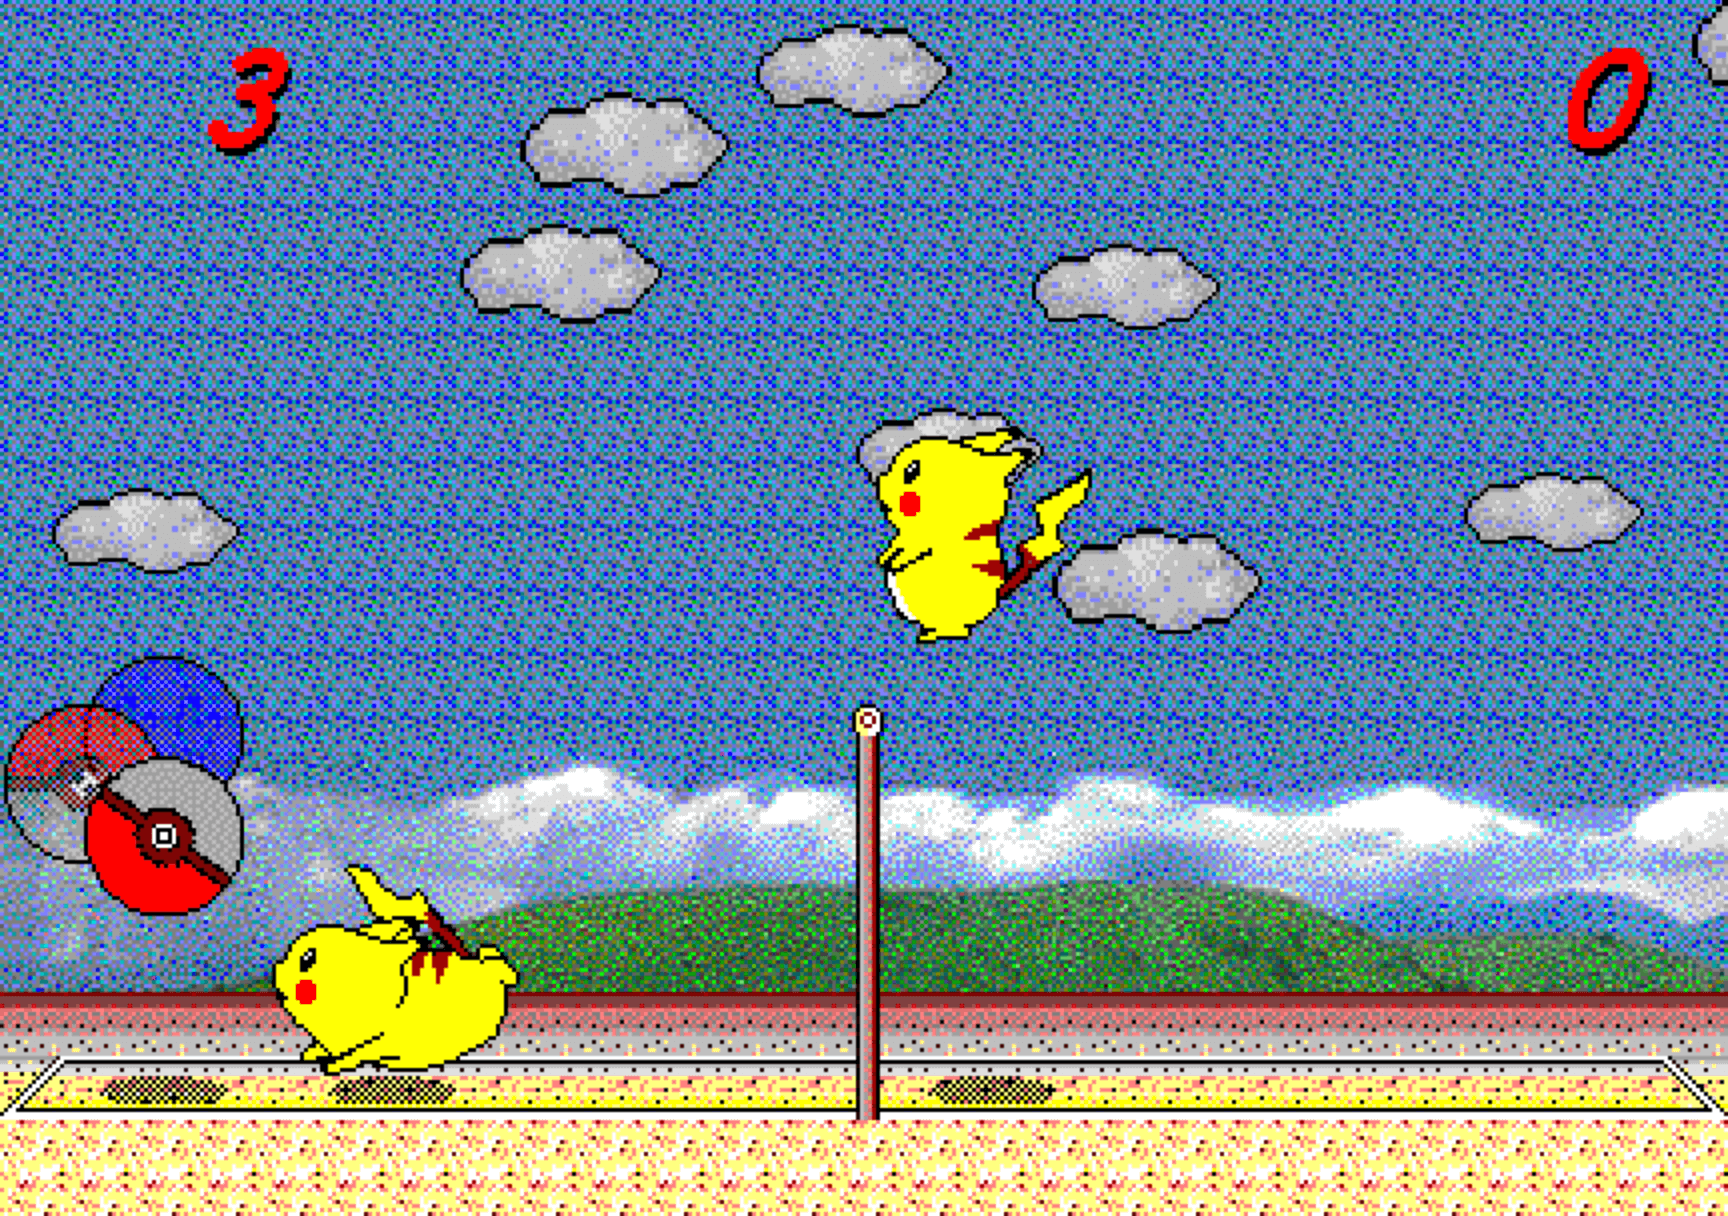
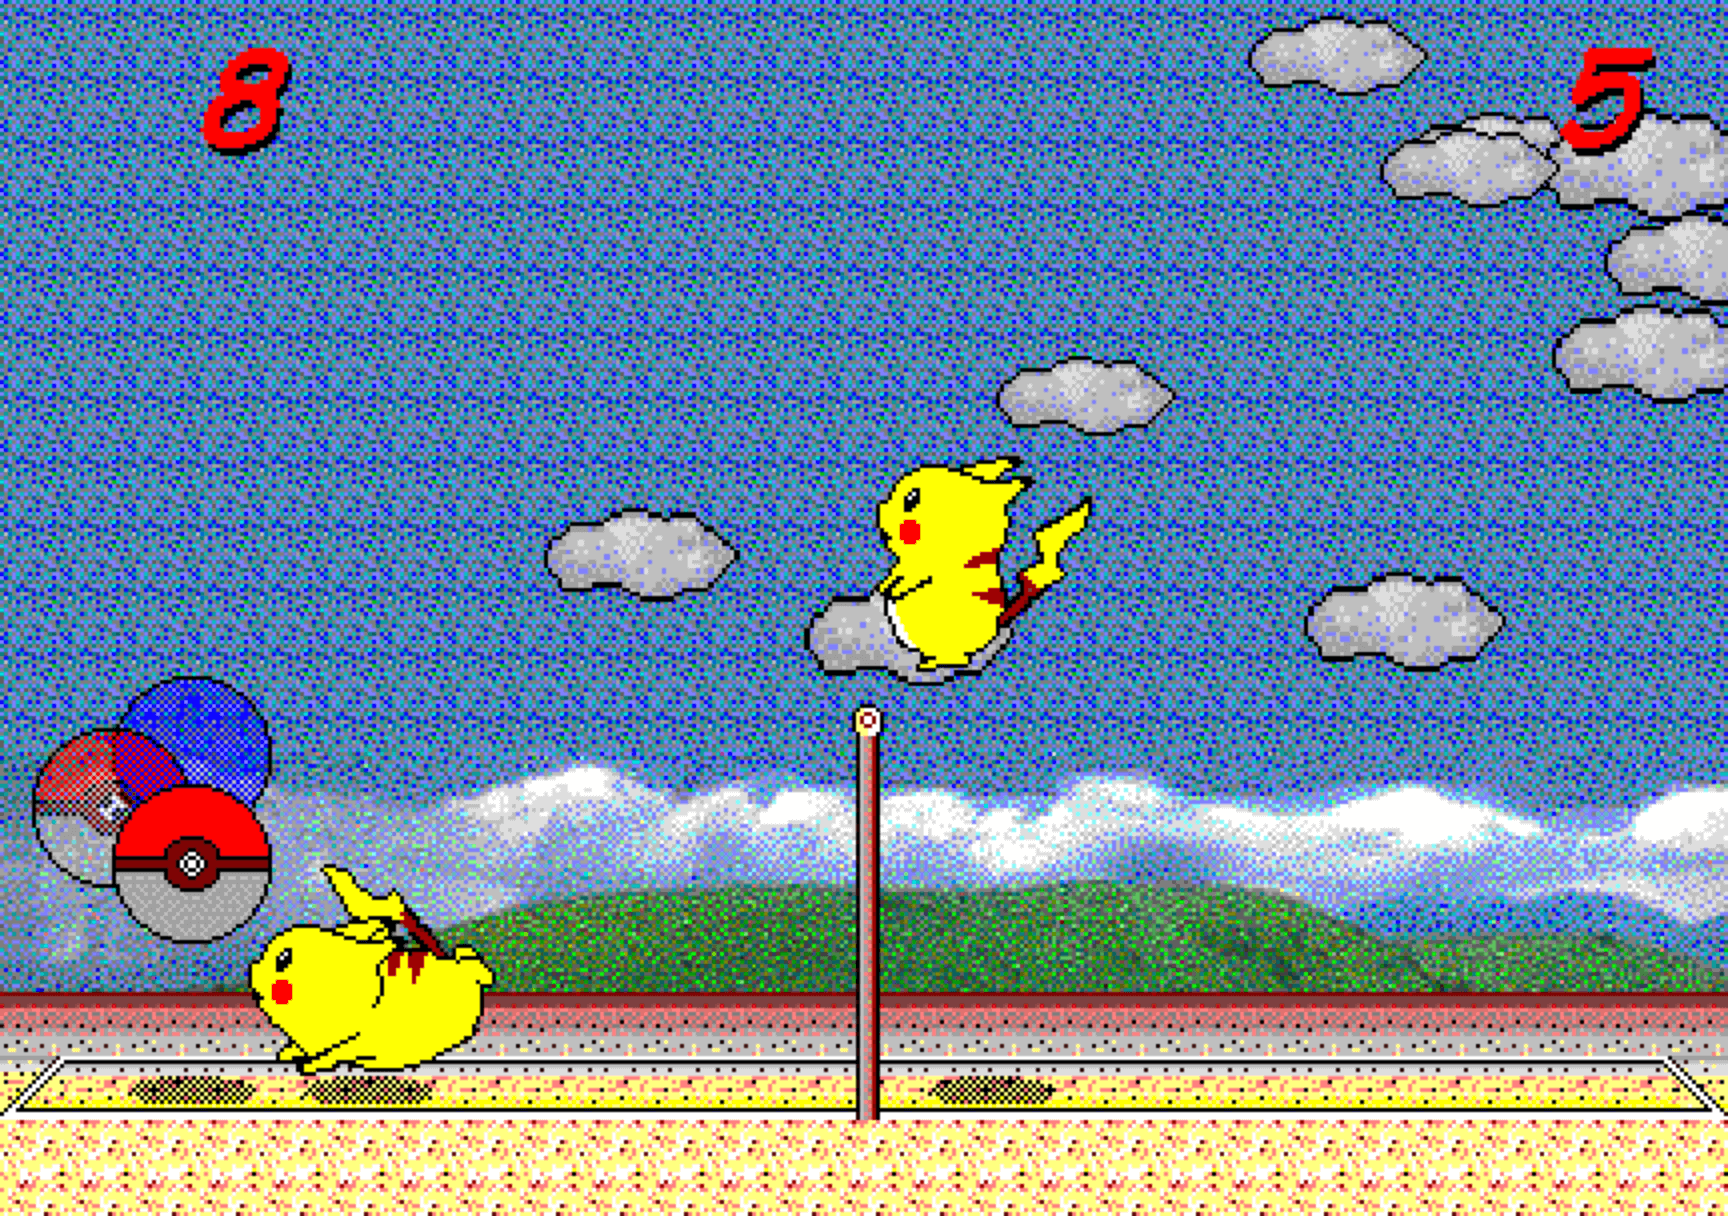
Copy from dist

diff --git a/sw.js b/sw.js
@@ -1,2 +1,2 @@
-if(!self.define){const e=e=>{"require"!==e&&(e+=".js");let s=Promise.resolve();return r[e]||(s=new Promise(async s=>{if("document"in self){const r=document.createElement("script");r.src=e,document.head.appendChild(r),r.onload=s}else importScripts(e),s()})),s.then(()=>{if(!r[e])throw new Error(`Module ${e} didn’t register its module`);return r[e]})},s=(s,r)=>{Promise.all(s.map(e)).then(e=>r(1===e.length?e[0]:e))},r={require:Promise.resolve(s)};self.define=(s,i,a)=>{r[s]||(r[s]=Promise.resolve().then(()=>{let r={};const o={uri:location.origin+s.slice(1)};return Promise.all(i.map(s=>{switch(s){case"exports":return r;case"module":return o;default:return e(s)}})).then(e=>{const s=a(...e);return r.default||(r.default=s),r})}))}}define("./sw.js",["./workbox-7f9f89a8"],(function(e){"use strict";self.addEventListener("message",e=>{e.data&&"SKIP_WAITING"===e.data.type&&self.skipWaiting()}),e.precacheAndRoute([{url:"en/index.html",revision:"b267528d4dc1900ca28075a56d3de52a"},{url:"en/manifest.json",revision:"9c2fba642fff247e04697110fcc58ff9"},{url:"index.html",revision:"d3263fb8881abc70f0651e52ac470f72"},{url:"ko.bundle.js",revision:"159230d1c231bb90822a2f2ef4b3b0b8"},{url:"ko/index.html",revision:"ce92461365488106db1bbbfe419411ec"},{url:"ko/manifest.json",revision:"20e0d1683d218b21f80574bc139aeb81"},{url:"main.bundle.js",revision:"0a09d43d5248d29228c5c90008e996ae"},{url:"resources/assets/images/IDI_PIKAICON-0.png",revision:"626715f8ff44df7393d01481a7aaf086"},{url:"resources/assets/images/IDI_PIKAICON-1_gap_filled.png",revision:"506daec1b30fe530fe92c45ac13dc7a6"},{url:"resources/assets/images/IDI_PIKAICON-1_gap_filled_192.png",revision:"29532d5d3e1660a885ad70c6e8b13d96"},{url:"resources/assets/images/IDI_PIKAICON-1_gap_filled_512.png",revision:"3ed2134d0cdf0e0467b4b7d3b150d457"},{url:"resources/assets/images/controls.png",revision:"8af81f631c595c2f396380b59d3d1093"},{url:"resources/assets/images/controls_ko.png",revision:"3977b41d4ef8d3eee3df57576a410f40"},{url:"resources/assets/images/screenshot.png",revision:"717ba53d5685b9c5e11765af391a3169"},{url:"resources/assets/images/sprite_sheet.json",revision:"fbf5be6abf4715cbe6357d01c5d178ff"},{url:"resources/assets/images/sprite_sheet.png",revision:"e2f9c1aec43ccf5f4dcc03f24b3e13da"},{url:"resources/assets/sounds/WAVE140_1.wav",revision:"a31e486f9bf2dfa2548a4208d78edc1f"},{url:"resources/assets/sounds/WAVE141_1.wav",revision:"e6b661515829712630bbead41d86ee8d"},{url:"resources/assets/sounds/WAVE142_1.wav",revision:"918c03522e79304ad8bb8891c35f58a3"},{url:"resources/assets/sounds/WAVE143_1.wav",revision:"eb2ac1cb1900cd970cdd86be87ebea11"},{url:"resources/assets/sounds/WAVE144_1.wav",revision:"6b16d233bc68aea2a7d071eee85da431"},{url:"resources/assets/sounds/WAVE145_1.wav",revision:"85da47de3575fbedaef71188fe4fc05f"},{url:"resources/assets/sounds/WAVE146_1.wav",revision:"9976daa90c7fd3f7008cf30e7cda8825"},{url:"resources/assets/sounds/bgm.mp3",revision:"029ae684624b50612c09a255264b2d93"},{url:"resources/style.css",revision:"3e0172adff192ed0999bcf4216b17866"},{url:"runtime.bundle.js",revision:"e4561e38162a6ab515f761407828af93"},{url:"vendors~main.bundle.js",revision:"a60f8101678724f05b403459d646f5f8"}],{}),e.cleanupOutdatedCaches()}));
+if(!self.define){const e=e=>{"require"!==e&&(e+=".js");let s=Promise.resolve();return r[e]||(s=new Promise(async s=>{if("document"in self){const r=document.createElement("script");r.src=e,document.head.appendChild(r),r.onload=s}else importScripts(e),s()})),s.then(()=>{if(!r[e])throw new Error(`Module ${e} didn’t register its module`);return r[e]})},s=(s,r)=>{Promise.all(s.map(e)).then(e=>r(1===e.length?e[0]:e))},r={require:Promise.resolve(s)};self.define=(s,i,a)=>{r[s]||(r[s]=Promise.resolve().then(()=>{let r={};const o={uri:location.origin+s.slice(1)};return Promise.all(i.map(s=>{switch(s){case"exports":return r;case"module":return o;default:return e(s)}})).then(e=>{const s=a(...e);return r.default||(r.default=s),r})}))}}define("./sw.js",["./workbox-7f9f89a8"],(function(e){"use strict";self.addEventListener("message",e=>{e.data&&"SKIP_WAITING"===e.data.type&&self.skipWaiting()}),e.precacheAndRoute([{url:"en/index.html",revision:"b267528d4dc1900ca28075a56d3de52a"},{url:"en/manifest.json",revision:"9c2fba642fff247e04697110fcc58ff9"},{url:"index.html",revision:"d3263fb8881abc70f0651e52ac470f72"},{url:"ko.bundle.js",revision:"159230d1c231bb90822a2f2ef4b3b0b8"},{url:"ko/index.html",revision:"ce92461365488106db1bbbfe419411ec"},{url:"ko/manifest.json",revision:"20e0d1683d218b21f80574bc139aeb81"},{url:"main.bundle.js",revision:"0a09d43d5248d29228c5c90008e996ae"},{url:"resources/assets/images/IDI_PIKAICON-0.png",revision:"626715f8ff44df7393d01481a7aaf086"},{url:"resources/assets/images/IDI_PIKAICON-1_gap_filled.png",revision:"506daec1b30fe530fe92c45ac13dc7a6"},{url:"resources/assets/images/IDI_PIKAICON-1_gap_filled_192.png",revision:"29532d5d3e1660a885ad70c6e8b13d96"},{url:"resources/assets/images/IDI_PIKAICON-1_gap_filled_512.png",revision:"3ed2134d0cdf0e0467b4b7d3b150d457"},{url:"resources/assets/images/controls.png",revision:"8af81f631c595c2f396380b59d3d1093"},{url:"resources/assets/images/controls_ko.png",revision:"3977b41d4ef8d3eee3df57576a410f40"},{url:"resources/assets/images/screenshot.png",revision:"3867bffd4bef3786694f9ebeb77d4d1d"},{url:"resources/assets/images/sprite_sheet.json",revision:"fbf5be6abf4715cbe6357d01c5d178ff"},{url:"resources/assets/images/sprite_sheet.png",revision:"e2f9c1aec43ccf5f4dcc03f24b3e13da"},{url:"resources/assets/sounds/WAVE140_1.wav",revision:"a31e486f9bf2dfa2548a4208d78edc1f"},{url:"resources/assets/sounds/WAVE141_1.wav",revision:"e6b661515829712630bbead41d86ee8d"},{url:"resources/assets/sounds/WAVE142_1.wav",revision:"918c03522e79304ad8bb8891c35f58a3"},{url:"resources/assets/sounds/WAVE143_1.wav",revision:"eb2ac1cb1900cd970cdd86be87ebea11"},{url:"resources/assets/sounds/WAVE144_1.wav",revision:"6b16d233bc68aea2a7d071eee85da431"},{url:"resources/assets/sounds/WAVE145_1.wav",revision:"85da47de3575fbedaef71188fe4fc05f"},{url:"resources/assets/sounds/WAVE146_1.wav",revision:"9976daa90c7fd3f7008cf30e7cda8825"},{url:"resources/assets/sounds/bgm.mp3",revision:"029ae684624b50612c09a255264b2d93"},{url:"resources/style.css",revision:"3e0172adff192ed0999bcf4216b17866"},{url:"runtime.bundle.js",revision:"e4561e38162a6ab515f761407828af93"},{url:"vendors~main.bundle.js",revision:"a60f8101678724f05b403459d646f5f8"}],{}),e.cleanupOutdatedCaches()}));
 //# sourceMappingURL=sw.js.map
